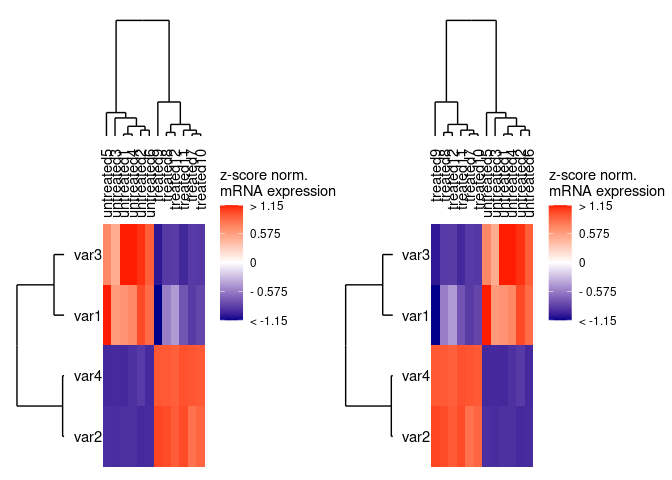
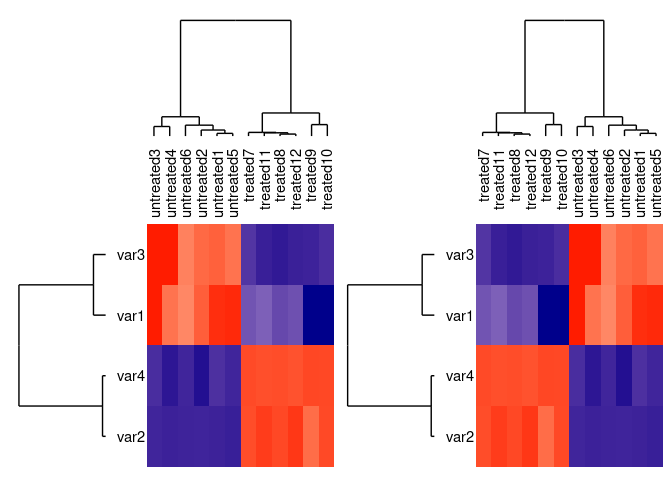
another readme update

diff --git a/README.md b/README.md
@@ -35,13 +35,13 @@ df <- data.frame(samples = c(paste0("untreated", 1:6), paste0("treated", 7:12)),
                  var4 = c(rnorm(6, 10, 1),  rnorm(6, 60, .7)))
 
 head(df)
-#>      samples     group  patient batch     var1      var2     var3      var4
-#> 1 untreated1 Untreated Patient1     1 10.10423 11.501308 56.37941  9.179734
-#> 2 untreated2 Untreated Patient2     2 10.86695  8.427591 54.16615 11.389776
-#> 3 untreated3 Untreated Patient3     1 10.01976  9.510030 41.26797  9.350953
-#> 4 untreated4 Untreated Patient1     2 10.23832 11.216166 55.85022 10.308983
-#> 5 untreated5 Untreated Patient2     1 11.77084 10.192072 45.74605  9.220261
-#> 6 untreated6 Untreated Patient3     2 10.55971  9.234998 50.49691  9.407339
+#>      samples     group  patient batch      var1      var2     var3      var4
+#> 1 untreated1 Untreated Patient1     1 10.383453  9.287492 45.79169 11.583357
+#> 2 untreated2 Untreated Patient2     2 10.075931 10.270500 45.01411  7.953078
+#> 3 untreated3 Untreated Patient3     1 10.483314 10.710035 54.10228 11.249119
+#> 4 untreated4 Untreated Patient1     2  9.900946  8.954973 52.03374  8.690800
+#> 5 untreated5 Untreated Patient2     1 10.404475  7.736143 44.07323 10.329316
+#> 6 untreated6 Untreated Patient3     2  9.720149  9.675822 42.67871 10.274727
 
 heatmap_plot <- simpleHM(df, excluded_vars = "batch")    
 #> normalisation done
@@ -154,8 +154,8 @@ p4 <- simpleHM(df, excluded_vars = "batch", add_dendros = T, pull_side = c("var1
 #> Adding another scale for y, which will replace the existing scale.Scale for x is already present.
 #> Adding another scale for x, which will replace the existing scale.
 
-combined_plots1 <- p1 | p2
-combined_plots2 <- p3 | p4
+combined_plots1 <- wrap_plots(list(p1, p2), ncol = 2) & ggplot2::theme(legend.position = "none")
+combined_plots2 <- wrap_plots(list(p3, p4), ncol = 2, guides = "collect")
 
 combined_plots1
 ```
